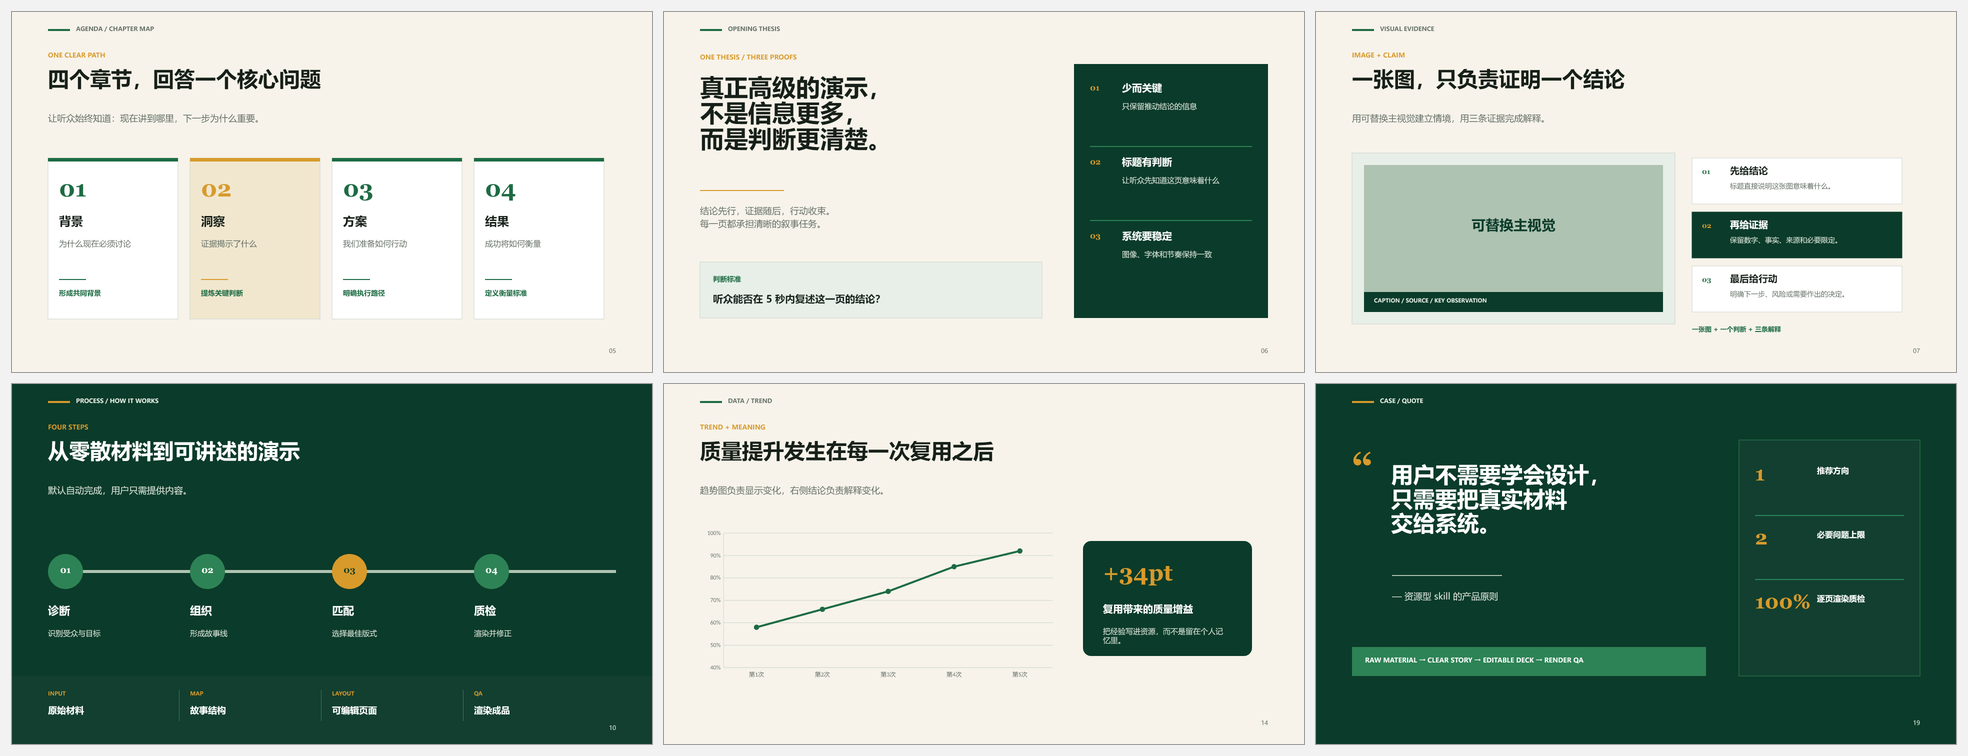
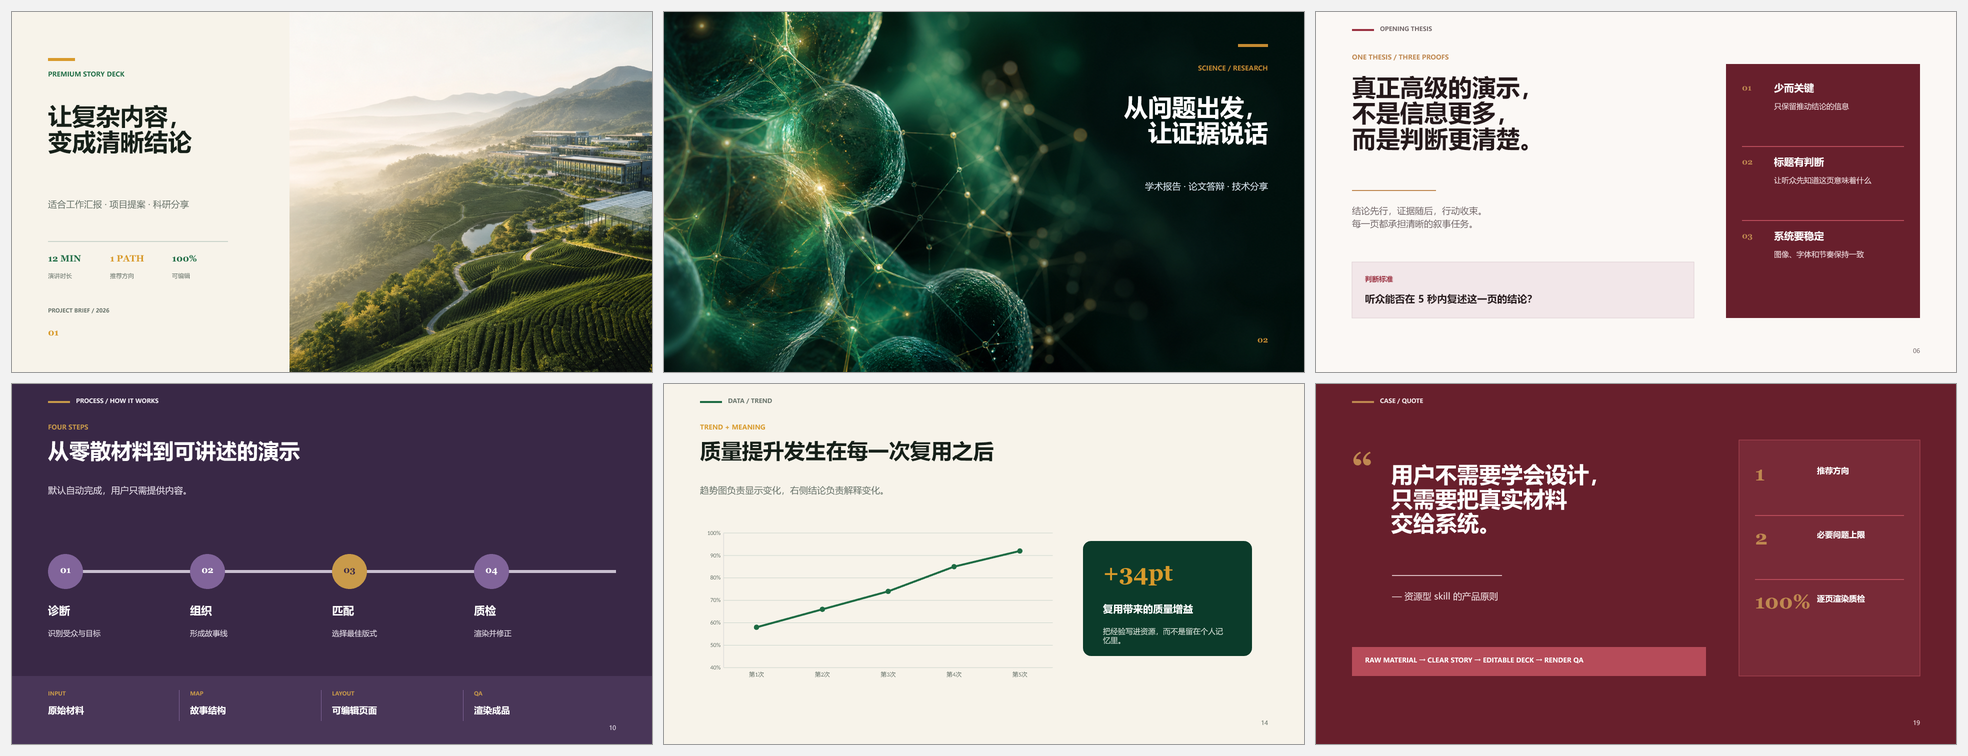
Expand README showcase catalog

diff --git a/README.md b/README.md
@@ -41,13 +41,56 @@ The Skill selects one theme from the audience, scenario, and content. Supplied b
 
 ## 真实版式效果 / Real layout previews
 
-下面全部来自仓库内的可编辑 PPTX 实际渲染结果，不是概念图。正文页采用信息完整的中高密度编辑式版面，同时保留清晰层级与呼吸感。
+下面全部来自仓库内的可编辑 PPTX 实际渲染结果，不是概念图。这里展示的不只是四种配色，而是一套覆盖不同内容、场景和叙事任务的版式系统。
 
-Every preview below is rendered from the editable PPTX included in this repository—not a mockup. Body slides use a complete, medium-to-high-density editorial system with clear hierarchy.
+Every preview below is rendered from the editable PPTX included in this repository—not a mockup. This is more than four color themes: it is a layout system for different stories, content types, and presentation scenarios.
 
 ![Featured dense editorial layouts](./assets/showcase-featured.png)
 
-### 更多版式 / More layouts
+| 类别 / Category | 可用版式 / Layout choices |
+|---|---|
+| 开场与导航 / Opening & navigation | 封面、章节、目录、核心问题 / Covers, dividers, agenda, key question |
+| 观点与证据 / Claims & evidence | 三证据、图文论证、引用、结论 / Evidence cards, visual proof, quote, takeaway |
+| 流程与计划 / Process & planning | 四步流程、时间线、研究方法、路线图 / Process, timeline, method, roadmap |
+| 数据与洞察 / Data & insight | 柱状图、折线图、环形图、指标卡 / Bar, line, doughnut, KPI cards |
+| 分析与决策 / Analysis & decision | 对比、二维矩阵、风险矩阵、优先级 / Comparison, 2×2, risk, prioritization |
+| 收束与行动 / Closing & action | 总结、下一步、行动清单、结尾 / Summary, next steps, action list, closing |
+
+## 按场景浏览 / Browse by scenario
+
+### 学术答辩与科研 / Academic & research
+
+适合开题、答辩、论文解读、实验汇报和技术分享：从论点、证据、方法到数据、矩阵与风险，完整支撑一条研究叙事。
+
+For thesis defenses, research reviews, experiments, and technical talks—from thesis and evidence to methods, data, matrices, and risk.
+
+![Academic and research presentation gallery](./assets/showcase-academic.png)
+
+### 工作汇报与项目 / Work reports & projects
+
+适合周报、年度汇报、项目复盘、提案和培训：封面、目录、指标、流程、时间线、趋势与行动页可以直接组合。
+
+For reports, project reviews, proposals, and training—combine covers, agendas, metrics, process, timelines, trends, and next actions.
+
+![Work report and project presentation gallery](./assets/showcase-work-report.png)
+
+### 战略、数据与咨询 / Strategy, data & consulting
+
+适合管理层简报、战略分析和商业汇报：强调选择、对比、关键指标、矩阵、风险与决策，不靠装饰制造“高级感”。
+
+For executive briefs, strategy, and business analysis—built around choices, comparisons, metrics, matrices, risk, and decisions.
+
+![Strategy data and consulting presentation gallery](./assets/showcase-strategy.png)
+
+### 院校与正式评审 / Institutional & formal review
+
+适合高校、医院、实验室、公共机构和正式评审：兼顾组织感、可信度、信息密度与品牌气质。
+
+For universities, hospitals, labs, public institutions, and formal reviews—structured, credible, information-rich, and brand-ready.
+
+![Institutional and formal review presentation gallery](./assets/showcase-institutional.png)
+
+### 跨类别版式库 / Cross-category layout library
 
 ![Editable presentation layout gallery](./assets/showcase-layouts.png)
 
